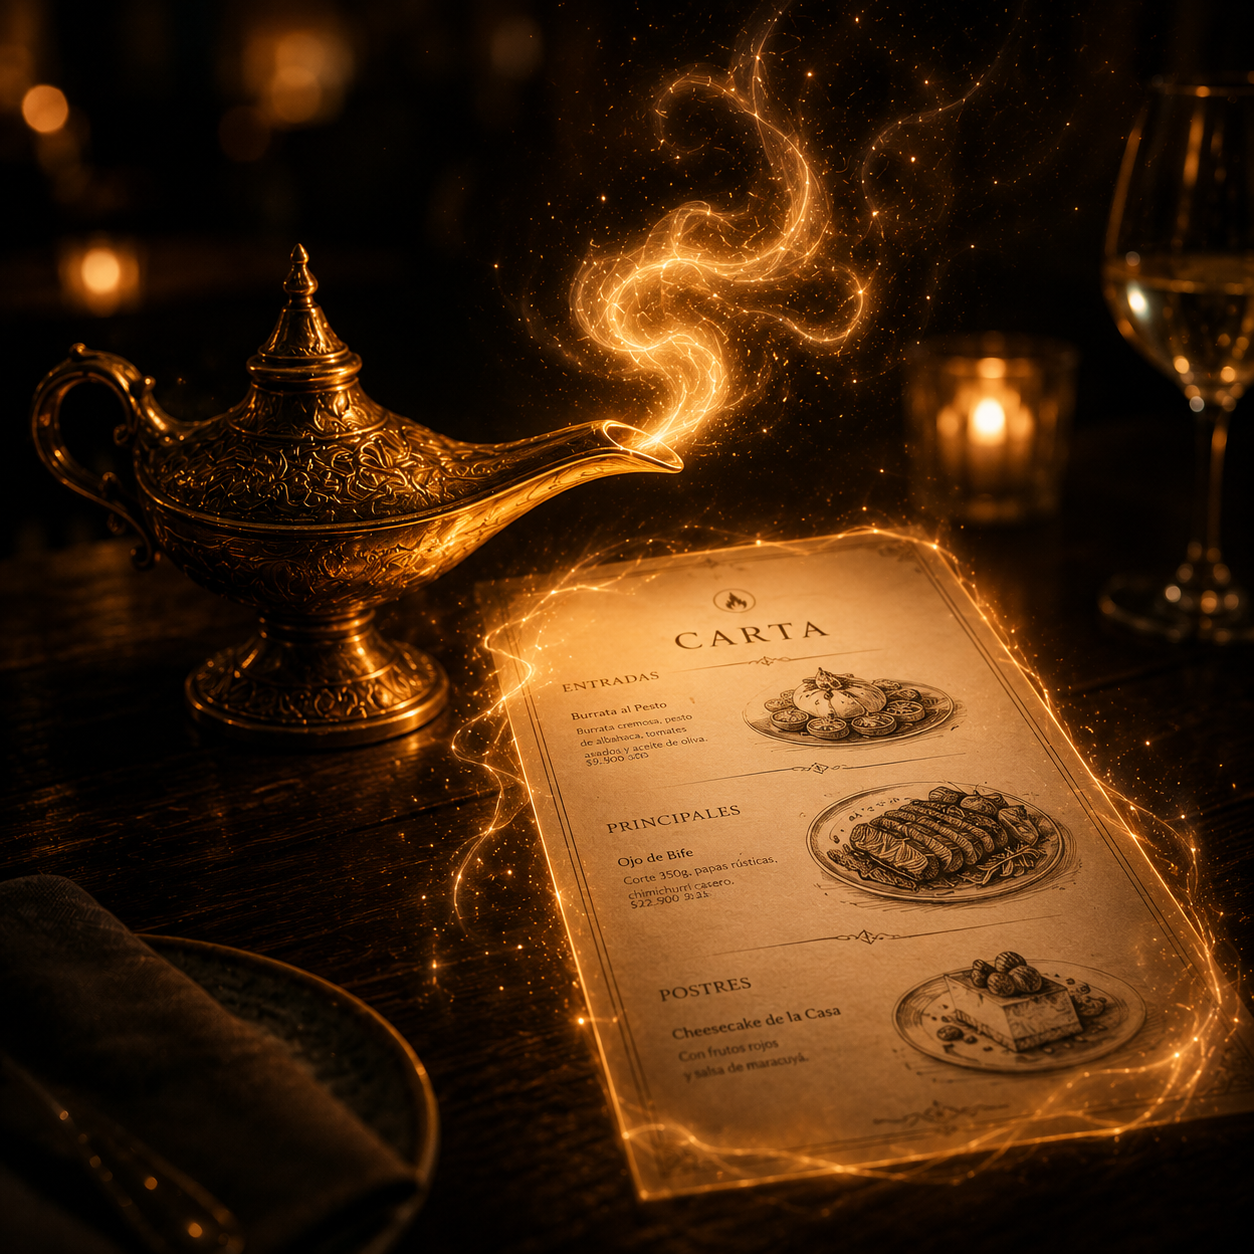
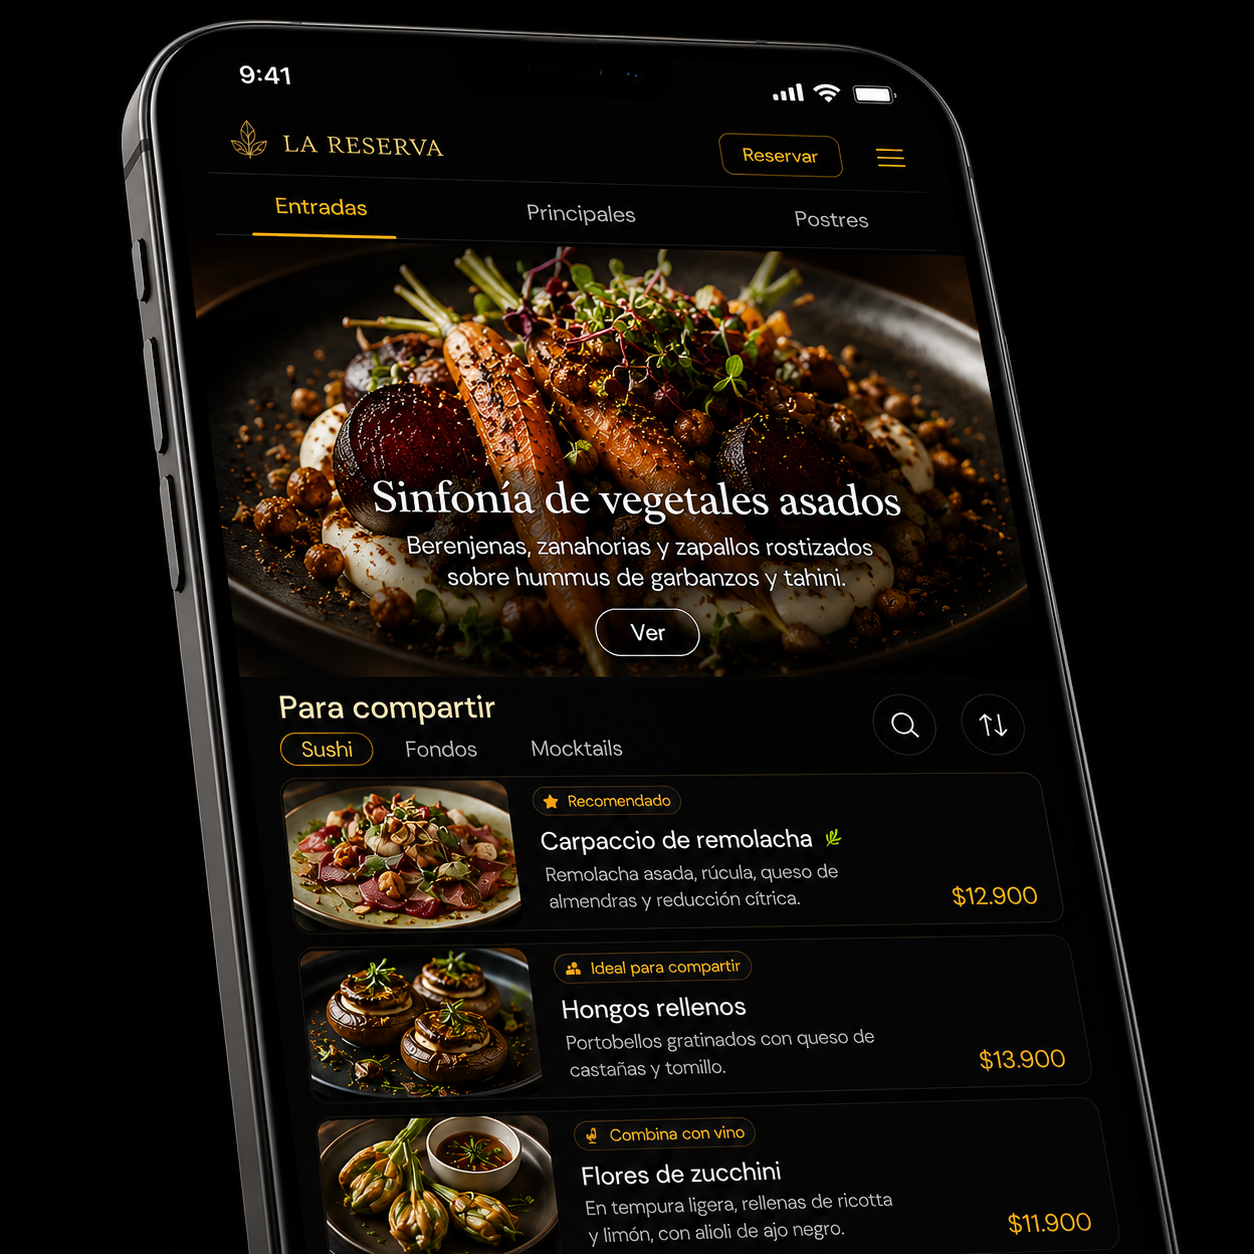
OG image 22.png for landing/social preview, onboarding animations + overlay, landing h1 center

diff --git a/src/components/qr/carta/DemoOnboarding.tsx b/src/components/qr/carta/DemoOnboarding.tsx
@@ -32,6 +32,7 @@ const STEPS: Step[] = [
     title: "Así quedaría",
     body: "Algunas fotos podrían ser referenciales, luego podrás editar todo desde tu panel.",
     showOverlay: false,
+    overlayOpacity: 0.25,
     buttonLabel: "Siguiente",
   },
   {
@@ -187,6 +188,10 @@ export default function DemoOnboarding({ restaurantSlug, onboardingDone }: Props
         return s;
       }
       if (STEPS[next].showOverlay) { setMinimized(false); setMinimizing(false); }
+      else if (!minimized) {
+        setMinimizing(true);
+        setTimeout(() => { setMinimizing(false); setMinimized(true); }, 220);
+      }
       return next;
     });
   }, []);
@@ -330,7 +335,7 @@ export default function DemoOnboarding({ restaurantSlug, onboardingDone }: Props
                   background: isLightStep ? "rgba(0,0,0,0.03)" : "rgba(255,255,255,0.05)",
                   border: isLightStep ? "1px solid rgba(0,0,0,0.08)" : "1px solid rgba(255,255,255,0.10)",
                   color: isLightStep ? "rgba(0,0,0,0.45)" : "rgba(255,255,255,0.45)",
-                  fontSize: "0.78rem", fontWeight: 600,
+                  fontSize: "0.84rem", fontWeight: 600,
                   display: "flex", alignItems: "center", gap: 3, cursor: "pointer",
                   fontFamily: "var(--font-dm, sans-serif)",
                 }}>← Atrás</button>
@@ -339,7 +344,7 @@ export default function DemoOnboarding({ restaurantSlug, onboardingDone }: Props
                 borderRadius: 999, padding: "6px 12px",
                 background: isLightStep ? "rgba(243,163,51,0.12)" : "rgba(255,178,45,0.12)",
                 border: isLightStep ? "1px solid rgba(243,163,51,0.3)" : "1px solid rgba(255,178,45,0.2)",
-                color: isLightStep ? "#c67b00" : "#ffb22d", fontSize: "0.78rem", fontWeight: 700,
+                color: isLightStep ? "#c67b00" : "#ffb22d", fontSize: "0.84rem", fontWeight: 700,
                 display: "flex", alignItems: "center", gap: 3, cursor: "pointer",
                 fontFamily: "var(--font-dm, sans-serif)",
               }}>{current.buttonLabel || "Siguiente →"}</button>
@@ -377,11 +382,12 @@ export default function DemoOnboarding({ restaurantSlug, onboardingDone }: Props
   return (
     <>
       {/* Overlay — only on steps with showOverlay */}
-      {current.showOverlay && !exiting && (
+      {(current.showOverlay || current.overlayOpacity) && !exiting && (
         <div style={{
           position: "fixed", inset: 0, zIndex: 9990,
           background: `rgba(0,0,0,${current.overlayOpacity ?? 0.55})`,
-          transition: "opacity 0.3s ease",
+          transition: "opacity 0.4s ease",
+          pointerEvents: current.showOverlay ? "auto" : "none",
         }} />
       )}
 

diff --git a/src/app/landing/page.tsx b/src/app/landing/page.tsx
@@ -20,13 +20,13 @@ export const metadata = {
     siteName: "QuieroComer",
     type: "website",
     locale: "es_CL",
-    images: [{ url: "https://quierocomer.cl/og-square.jpg", width: 400, height: 400, type: "image/jpeg" }],
+    images: [{ url: "https://quierocomer.cl/og.png", width: 1200, height: 630, type: "image/png" }],
   },
   twitter: {
-    card: "summary",
+    card: "summary_large_image",
     title: "QuieroComer | La carta inteligente que vende más por ti",
     description: "Transforma tu carta en una experiencia visual que recomienda platos, muestra fotos, sugiere extras y ayuda al cliente a decidir mejor.",
-    images: ["https://quierocomer.cl/og-square.jpg"],
+    images: ["https://quierocomer.cl/og.png"],
   },
 };
 

diff --git a/src/app/(main)/layout.tsx b/src/app/(main)/layout.tsx
@@ -30,6 +30,11 @@ export const metadata: Metadata = {
     siteName: "QuieroComer",
     type: "website",
     locale: "es_CL",
+    images: [{ url: "https://quierocomer.cl/og.png", width: 1200, height: 630 }],
+  },
+  twitter: {
+    card: "summary_large_image",
+    images: ["https://quierocomer.cl/og.png"],
   },
 };
 

diff --git a/src/app/(main)/LandingNew.tsx b/src/app/(main)/LandingNew.tsx
@@ -452,7 +452,7 @@ nav{position:fixed;top:0;left:0;right:0;z-index:100;padding:20px clamp(22px,4vw,
 .hero-glow{position:absolute;inset:auto -15% -30% -15%;height:55%;background:radial-gradient(ellipse at 65% 80%,rgba(232,163,61,.22),transparent 55%),radial-gradient(ellipse at 80% 60%,rgba(200,140,40,.1),transparent 45%)}
 .hero-grid{position:relative;z-index:2;display:grid;grid-template-columns:1fr;gap:0;max-width:1200px;margin:0 auto;align-items:center}.hero-grid>div:first-child{text-align:center}
 .eyebrow{font-size:12px;letter-spacing:.3em;text-transform:uppercase;color:var(--amber);font-weight:600;margin-bottom:22px}
-.hero h1{font-size:clamp(38px,5vw,68px);line-height:1.02;max-width:820px;margin-bottom:28px}
+.hero h1{font-size:clamp(38px,5vw,68px);line-height:1.02;max-width:820px;margin-left:auto;margin-right:auto;margin-bottom:28px}
 .btn-primary{display:inline-flex;align-items:center;gap:14px;padding:20px 34px;margin-top:6px;margin-bottom:8px;background:var(--amber);color:var(--black);font-size:16px;font-weight:700;text-decoration:none;border:none;cursor:pointer;transition:.3s;box-shadow:0 20px 60px -20px rgba(232,163,61,.7)}
 .btn-primary:hover{background:var(--amber-bright);transform:translateY(-2px)}
 .hero-ia-text{font-family:var(--font-display);font-style:italic;font-size:clamp(18px,2vw,22px);color:var(--cream-soft);margin-bottom:28px;max-width:540px;margin-left:auto;margin-right:auto;line-height:1.4}
@@ -588,7 +588,7 @@ footer{padding:44px 0;background:var(--black);border-top:1px solid var(--gray-de
 .plan-btn-primary{background:var(--amber);color:var(--black);font-weight:700;border:none}
 @media(max-width:900px){
   nav{padding:16px 20px}.logo{font-size:20px}.nav-link{display:none}.nav-cta{font-size:12px;padding:9px 14px;background:var(--amber);color:var(--black)}
-  .hero{padding:70px 0 70px}.hero-bg{background-position:40% center!important}.hero-grid{grid-template-columns:1fr}.hero-grid>div:first-child{text-align:center}.hero h1{font-size:clamp(44px,12vw,58px)}.phone-demo{display:none}
+  .hero{padding:70px 0 70px}.hero-bg{background-position:45% center!important}.hero-grid{grid-template-columns:1fr}.hero-grid>div:first-child{text-align:center}.hero h1{font-size:clamp(44px,12vw,58px)}.phone-demo{display:none}
   .problem,.how-it-works{padding:82px 0}.mientras-section{min-height:300px}.mientras-content{padding:40px 28px;text-align:left;align-items:flex-start}.mientras-bg img{object-position:60% 30%;transform:scale(1.4)}.try-overlay{background:linear-gradient(180deg,rgba(9,8,6,.88),rgba(9,8,6,.95))}.pains{padding:54px 0 50px}.section-head{margin-bottom:42px}.hiw-title{margin-bottom:40px}.hiw-step{grid-template-columns:1fr 120px;gap:10px;padding-bottom:38px}.hiw-img-wrap{aspect-ratio:1/1}.hiw-img-wrap img{height:100%;object-fit:cover;object-position:center 20%}
   .pain-card{grid-template-columns:38% 1fr;gap:10px}.pain-reverse{grid-template-columns:1fr 38%}.pain-img{height:100%;min-height:200px;max-height:230px}.pain-text{padding:16px!important;display:flex;flex-direction:column;justify-content:center;text-align:left}.pain-num{font-size:26px;display:inline}.pain-card h3{font-size:26px;margin-bottom:12px;display:inline;font-weight:700}.pain-card p{font-size:17px}
   .planes-grid{grid-template-columns:1fr}